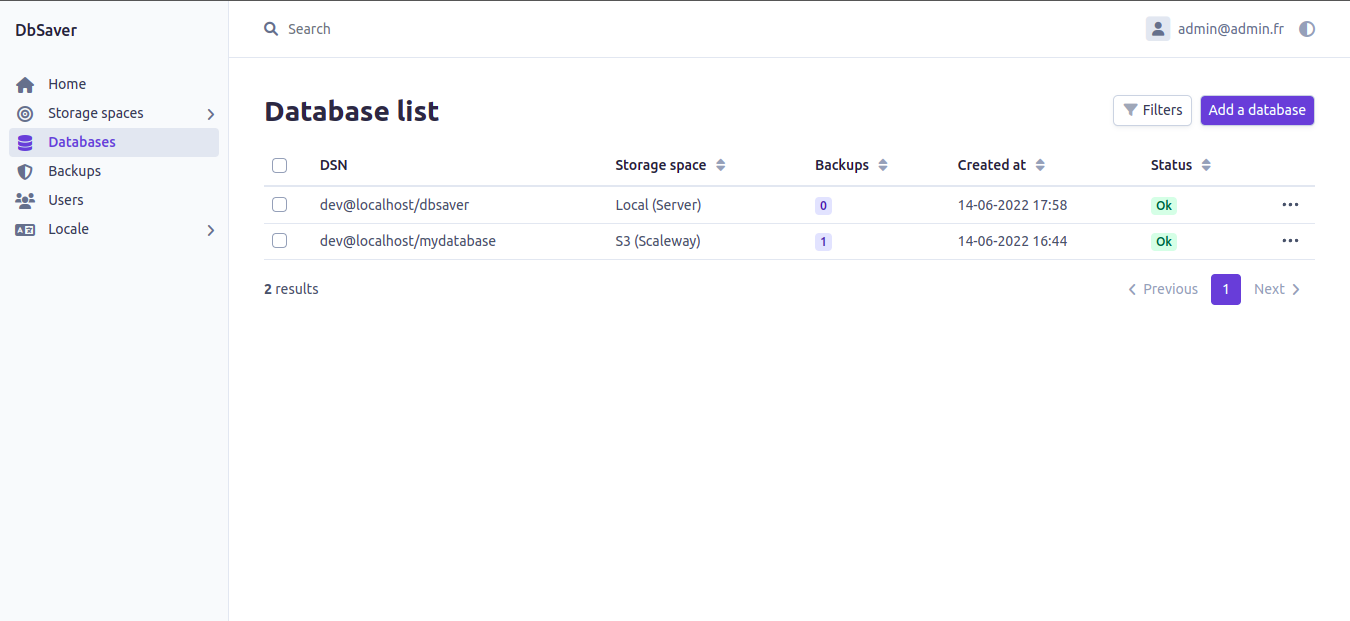
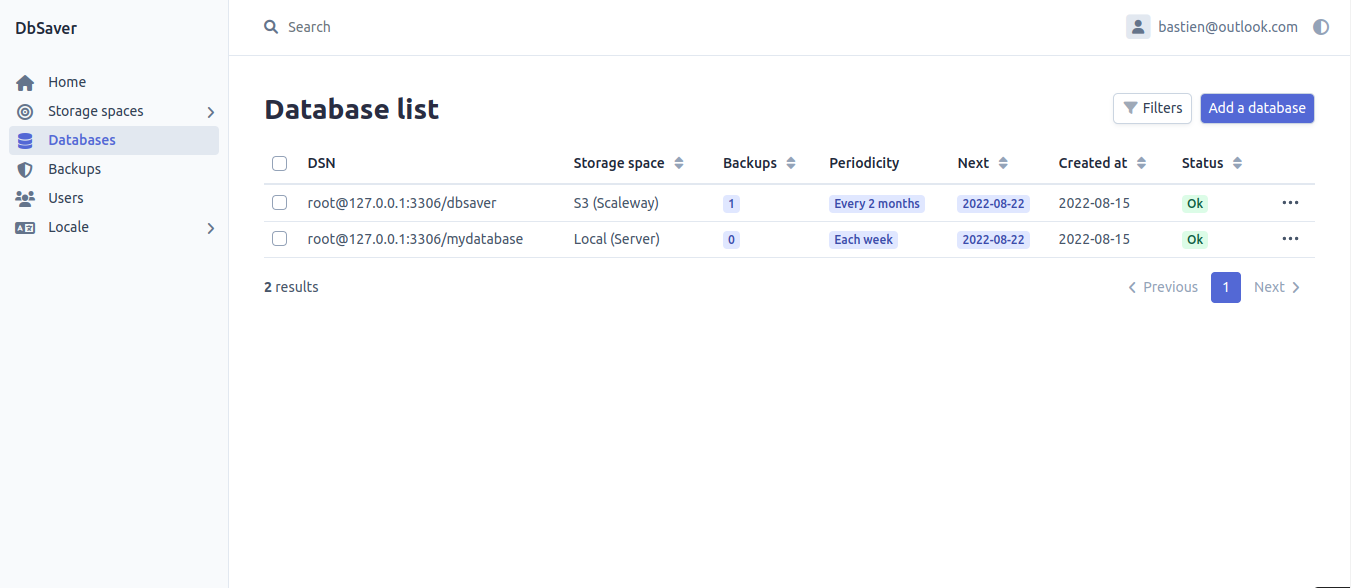
Updated documentation (#74)

diff --git a/README.md b/README.md
@@ -64,7 +64,10 @@ Requires [Symfony CLI](https://symfony.com/download) and [Task](https://taskfile
 
 ## Configure the CRON job <a name="cron"></a>
 
-Configuring a CRON job allows you to automatically backup databases at the frequency of your choice.
+Configure the CRON task allows you to activate the verification of backups to be made. **Set it up to run every day**.
+
+When you add databases, you can each time configure the periodicity of the backups to be made.
+The CRON task will automatically fetch the databases that need to be backed up and perform the automatic backup.
 
 Here is the command to run: `php bin/console app:backup`
 
@@ -103,7 +106,11 @@ You will find this storage space in the list.
 ### Manage databases <a name="databases"></a>
 
 To create a database, click the `Databases` tab, then the `Add a database` button.
-Fill your database information and submit.
+Fill your database information.
+
+Then, check the **backup options** according to your needs.
+
+Finally, configure the **periodicity** at which a backup must be executed for your database (example: every day, every 2 weeks, every 3 months, ...)
 
 ![Add a database](docs/images/database-create.png?raw=true)
 
